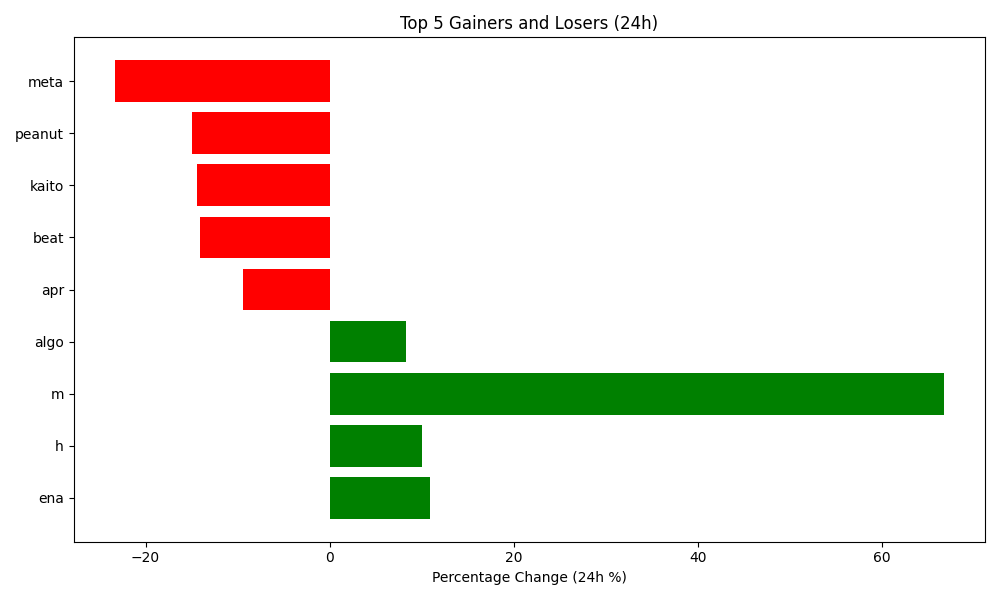
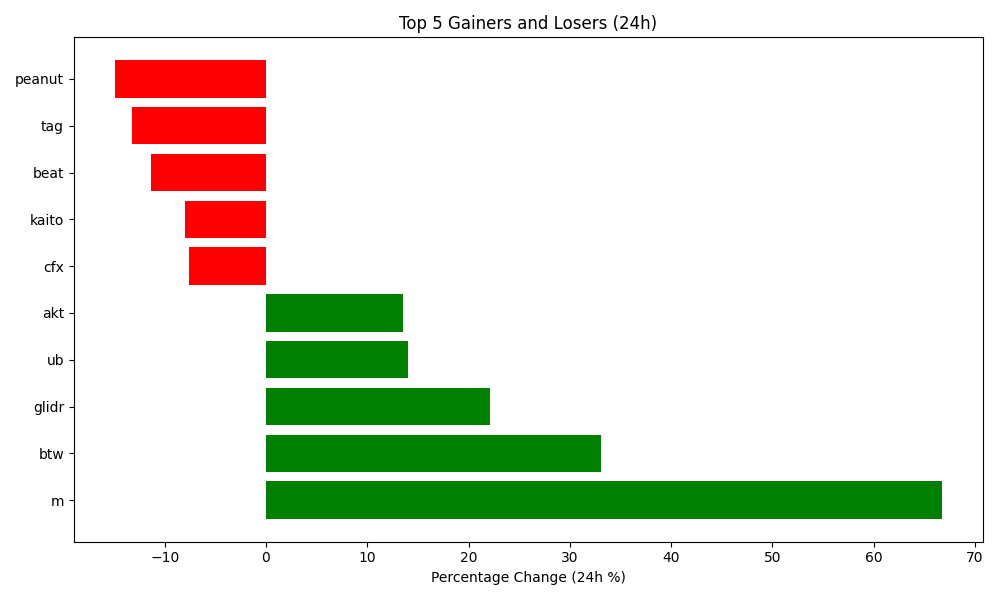
Auto-update crypto data and plot

diff --git a/README.md b/README.md
@@ -4,7 +4,7 @@ Author: Hitesh Agrawal
 This repository automatically tracks the top 5 gaining, top 5 losing, and top 5 highest volume cryptocurrencies in the last 24 hours using the CoinGecko API, Python, Matplotlib, and GitHub Actions updates the below content everyday at midnight.
 
 <!-- START_DYNAMIC_CONTENT -->
-Last updated: 2026-08-03 02:04 UTC
+Last updated: 2026-08-04 01:50 UTC
 
 ![Crypto Movers Plot](crypto_movers_plot.png)
 
@@ -13,32 +13,32 @@ Last updated: 2026-08-03 02:04 UTC
 | Rank | Coin | Price Change (24h %) | Volume (USD) | Current Price (USD) |
 | :--: | :--: | :------------------: | :----------: | :-----------------: |
 | 1 | m | 66.70% | $383,597 | $1.2900 |
-| 2 | ena | 10.90% | $168,995,079 | $0.0886 |
-| 3 | h | 10.00% | $7,683,243 | $0.0759 |
-| 4 | m | 8.40% | $9,396,723 | $1.2000 |
-| 5 | algo | 8.30% | $32,478,726 | $0.0852 |
+| 2 | btw | 33.10% | $15,931,203 | $0.1071 |
+| 3 | glidr | 22.10% | $63,679 | $1.6600 |
+| 4 | ub | 14.00% | $3,132,026 | $0.1876 |
+| 5 | akt | 13.50% | $11,241,882 | $0.5275 |
 
 
 **👇 Top 5 Losers (24h)**
 
 | Rank | Coin | Price Change (24h %) | Volume (USD) | Current Price (USD) |
 | :--: | :--: | :------------------: | :----------: | :-----------------: |
-| 1 | meta | -23.30% | $14,882,382 | $5.3200 |
-| 2 | peanut | -14.90% | $2 | $0.0006 |
-| 3 | kaito | -14.40% | $64,819,068 | $1.0250 |
-| 4 | beat | -14.10% | $43,734,905 | $3.8200 |
-| 5 | apr | -9.40% | $2,763,541 | $0.2084 |
+| 1 | peanut | -14.90% | $2 | $0.0006 |
+| 2 | tag | -13.20% | $2,711,827 | $0.0012 |
+| 3 | beat | -11.40% | $29,293,535 | $3.0400 |
+| 4 | kaito | -8.00% | $59,289,568 | $0.9141 |
+| 5 | cfx | -7.60% | $7,059,494 | $0.0391 |
 
 
 **💎 Top 5 by Trade Volume (24h)**
 
 | Rank | Coin | Price Change (24h %) | Volume (USD) | Current Price (USD) |
 | :--: | :--: | :------------------: | :----------: | :-----------------: |
-| 1 | usdt | 0.00% | $25,584,181,226 | $0.9990 |
-| 2 | btc | 0.60% | $16,206,836,362 | $63,103.0000 |
-| 3 | usdc | 0.00% | $5,408,519,881 | $0.9994 |
-| 4 | eth | 1.10% | $5,059,601,143 | $1,864.0300 |
-| 5 | sol | 1.20% | $1,032,320,302 | $72.9100 |
+| 1 | usdt | 0.00% | $38,080,597,225 | $0.9991 |
+| 2 | btc | -0.30% | $26,033,437,468 | $63,716.0000 |
+| 3 | usdc | 0.00% | $10,448,628,566 | $0.9995 |
+| 4 | eth | -1.80% | $7,086,058,196 | $1,863.1200 |
+| 5 | sol | -0.70% | $1,419,135,803 | $73.5800 |
 
 
 <!-- END_DYNAMIC_CONTENT -->
